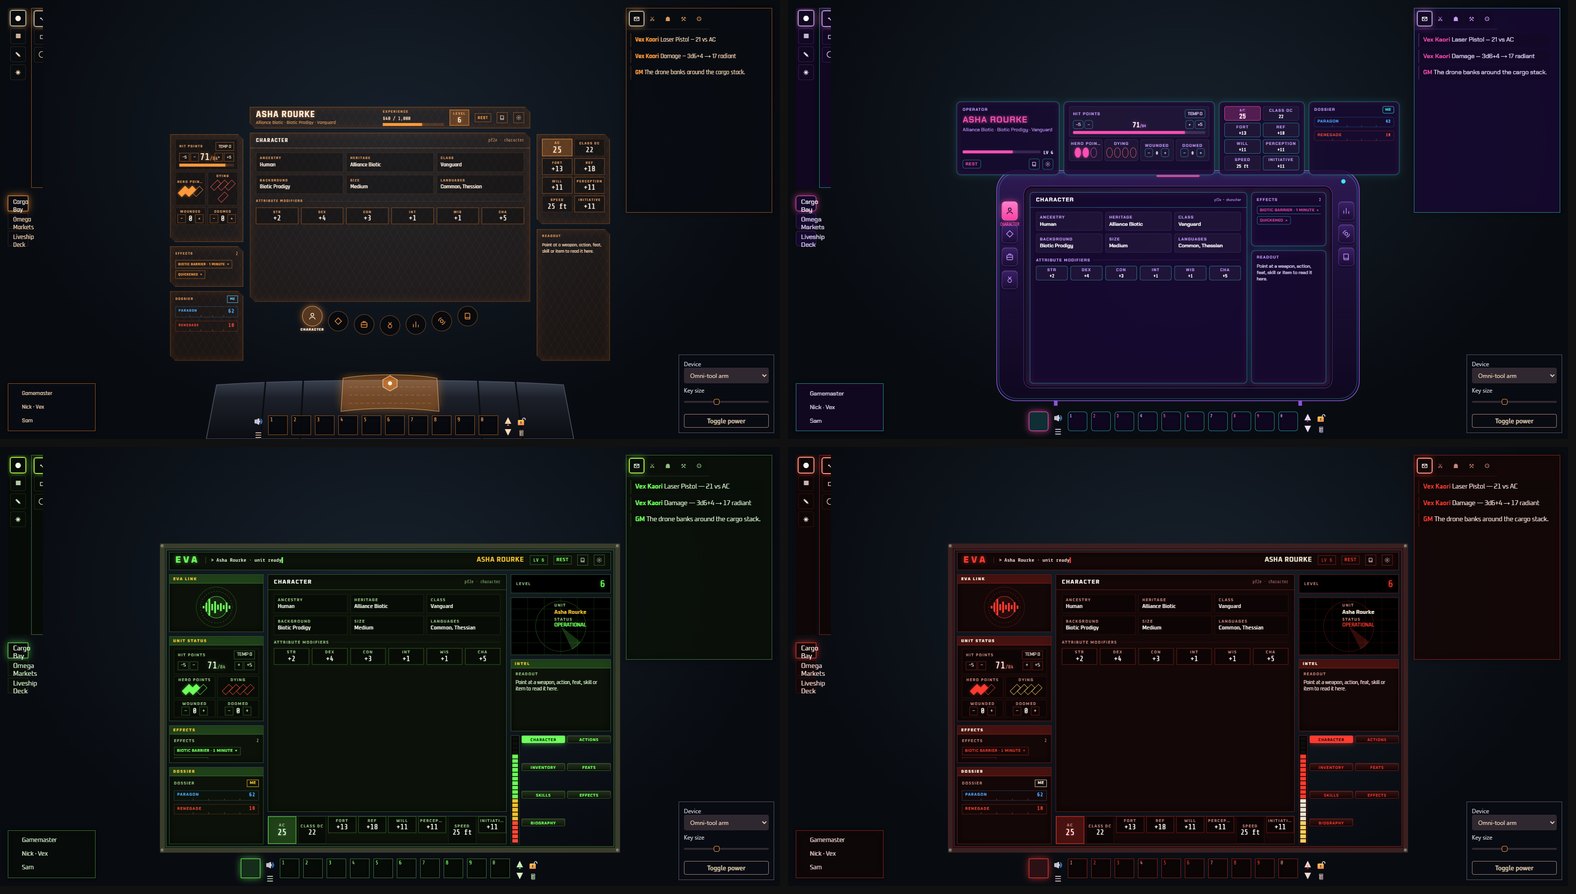
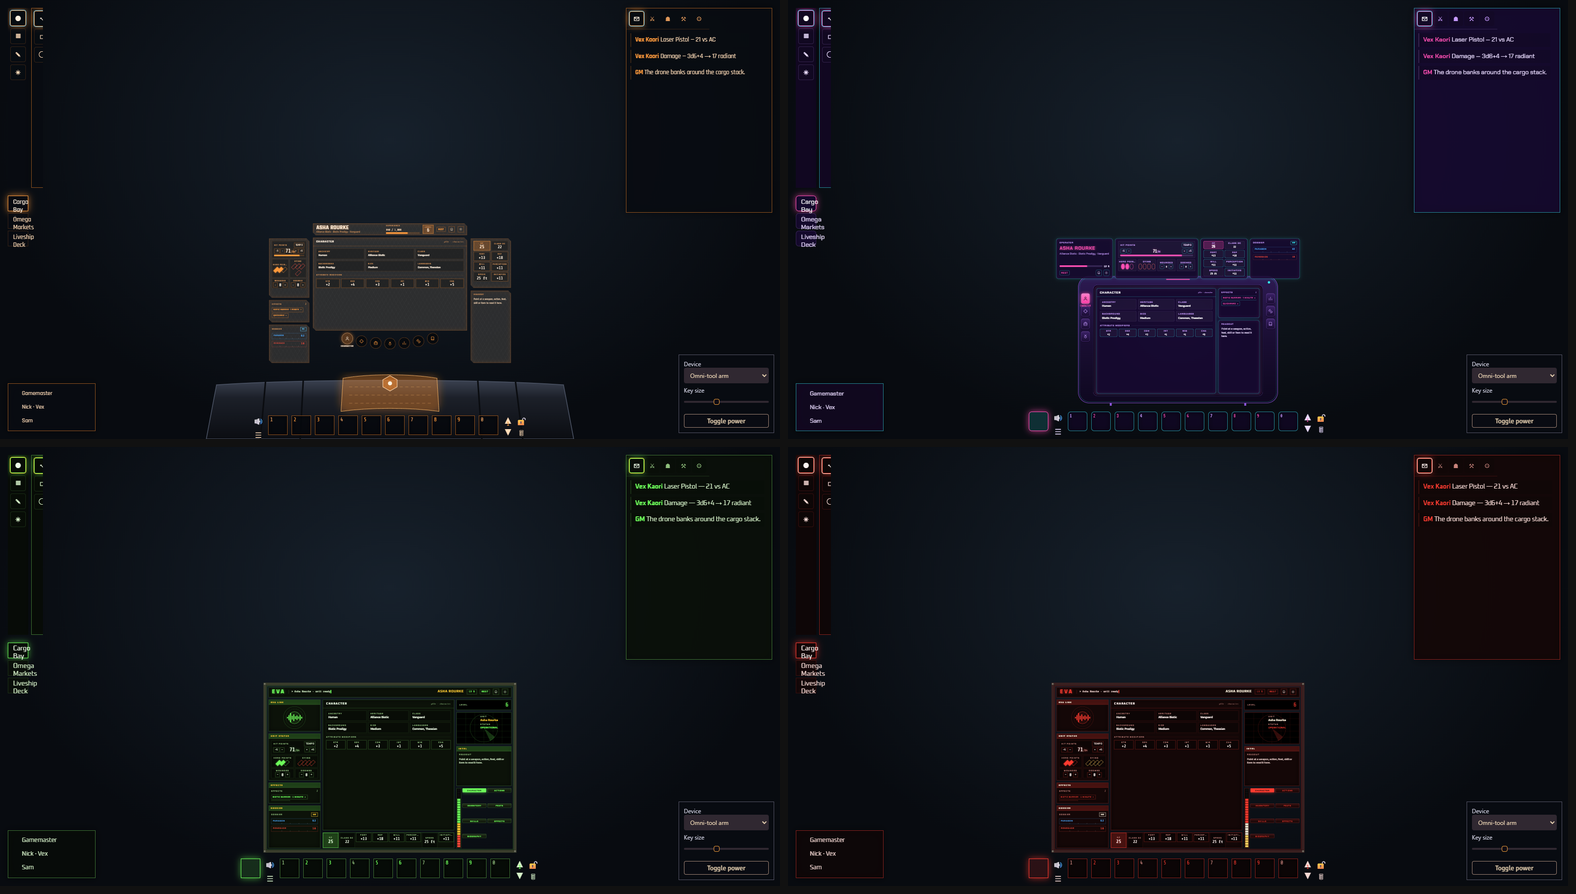
Stop the projection filling the screen, and make its panels readable
It was scaled to whatever room the interface left, which on a big monitor
means the whole monitor. There is a Projection size setting now — a share of
the free space, defaulting to 55% — so it sits above the device instead of
swallowing the map.

The omni-tool's panels were nearly clear glass (7% orange over whatever the
canvas showed), which is fine on a mock-up page and unreadable over a battle
map. They are a 20% grey tint now, kept translucent enough to still read as a
projection.

The panel colour is a design change, so it was made in design/1-head.html and
projection.css regenerated from it.

diff --git a/styles/projection.css b/styles/projection.css
@@ -12,7 +12,7 @@
 
 /* ---------- theme tokens ---------- */
 #sfh-projection .sfh-stage{position:absolute;inset:0;overflow:hidden;background:var(--bg);color:var(--text);font-family:var(--font);font-size:var(--fs)}
-#sfh-projection .sfh-stage[data-device="omni"]{--bg:radial-gradient(ellipse at 50% 36%,#111723 0%,#05070b 68%);--pnl:rgba(255,120,20,.07);--pnl2:rgba(0,0,0,.28);--line:rgba(255,140,42,.55);--line2:rgba(255,140,42,.18);--text:#ffdcb8;--bright:#fff0de;--dim:#e0985a;--hot:#ff9a3c;--hotbg:rgba(255,140,42,.28);--hover:rgba(255,140,42,.16);--glow:rgba(255,140,42,.7);--acc:#5ec8ff;--accbg:rgba(94,200,255,.16);--bad:#ff5a4a;--good:#8dffb0;--font:Rajdhani,'Arial Narrow',sans-serif;--display:Rajdhani,'Arial Narrow',sans-serif;--mono:'Share Tech Mono',ui-monospace,monospace;--fs:15px;--r:0px;--clip:polygon(0 0,calc(100% - 14px) 0,100% 14px,100% 100%,14px 100%,0 calc(100% - 14px));--pshadow:inset 0 0 22px rgba(255,120,20,.15),0 0 14px rgba(255,120,20,.1)}
+#sfh-projection .sfh-stage[data-device="omni"]{--bg:radial-gradient(ellipse at 50% 36%,#111723 0%,#05070b 68%);--pnl:rgba(51,51,51,.82);--pnl2:rgba(26,26,26,.55);--line:rgba(255,140,42,.55);--line2:rgba(255,140,42,.18);--text:#ffdcb8;--bright:#fff0de;--dim:#e0985a;--hot:#ff9a3c;--hotbg:rgba(255,140,42,.28);--hover:rgba(255,140,42,.16);--glow:rgba(255,140,42,.7);--acc:#5ec8ff;--accbg:rgba(94,200,255,.16);--bad:#ff5a4a;--good:#8dffb0;--font:Rajdhani,'Arial Narrow',sans-serif;--display:Rajdhani,'Arial Narrow',sans-serif;--mono:'Share Tech Mono',ui-monospace,monospace;--fs:15px;--r:0px;--clip:polygon(0 0,calc(100% - 14px) 0,100% 14px,100% 100%,14px 100%,0 calc(100% - 14px));--pshadow:inset 0 0 22px rgba(255,120,20,.15),0 0 14px rgba(255,120,20,.1)}
 #sfh-projection .sfh-stage[data-device="wrist"]{--bg:#0b0418;--pnl:rgba(22,9,48,.86);--pnl2:rgba(255,255,255,.04);--line:rgba(53,236,242,.55);--line2:rgba(199,155,255,.18);--text:#eadcff;--bright:#ffffff;--dim:#c79bff;--hot:#ff4fb4;--hotbg:rgba(255,79,180,.26);--hover:rgba(53,236,242,.14);--glow:rgba(255,79,180,.7);--acc:#35ecf2;--accbg:rgba(53,236,242,.14);--bad:#ff6b6b;--good:#7dffc8;--font:'Chakra Petch',sans-serif;--display:Audiowide,'Chakra Petch',sans-serif;--mono:VT323,ui-monospace,monospace;--fs:14px;--r:10px;--clip:none;--pshadow:0 0 18px rgba(53,236,242,.18),inset 0 0 16px rgba(255,79,180,.1)}
 #sfh-projection .sfh-stage[data-device="gdi"]{--bg:#060805;--pnl:#0c1209;--pnl2:rgba(0,0,0,.35);--line:rgba(118,214,96,.45);--line2:rgba(118,214,96,.16);--text:#d6f2c9;--bright:#effde8;--dim:#8fbf7c;--hot:#6dff5a;--hotbg:rgba(109,255,90,.2);--hover:rgba(109,255,90,.12);--glow:rgba(109,255,90,.6);--acc:#f2c230;--accbg:rgba(242,194,48,.16);--bad:#ff4a3a;--good:#6dff5a;--font:Oxanium,sans-serif;--display:Oxanium,sans-serif;--mono:'Share Tech Mono',ui-monospace,monospace;--fs:14px;--r:0px;--clip:none;--pshadow:inset 0 0 0 1px #000,inset 0 0 24px rgba(0,0,0,.6)}
 #sfh-projection .sfh-stage[data-device="nod"]{--bg:#080404;--pnl:#140707;--pnl2:rgba(0,0,0,.35);--line:rgba(255,60,50,.45);--line2:rgba(255,60,50,.16);--text:#f5d9d4;--bright:#fff3f0;--dim:#c9847c;--hot:#ff3b30;--hotbg:rgba(255,59,48,.22);--hover:rgba(255,59,48,.13);--glow:rgba(255,59,48,.65);--acc:#efe6d2;--accbg:rgba(239,230,210,.14);--bad:#ffd060;--good:#efe6d2;--font:Oxanium,sans-serif;--display:Oxanium,sans-serif;--mono:'Share Tech Mono',ui-monospace,monospace;--fs:14px;--r:0px;--clip:none;--pshadow:inset 0 0 0 1px #000,inset 0 0 24px rgba(0,0,0,.6)}

diff --git a/design/1-head.html b/design/1-head.html
@@ -21,7 +21,7 @@ body{font-family:'IBM Plex Sans',system-ui,sans-serif;padding-inline:16px;paddin
 
 /* ---------- theme tokens ---------- */
 .stage{position:absolute;inset:0;overflow:hidden;background:var(--bg);color:var(--text);font-family:var(--font);font-size:var(--fs)}
-.t-omni{--bg:radial-gradient(ellipse at 50% 36%,#111723 0%,#05070b 68%);--pnl:rgba(255,120,20,.07);--pnl2:rgba(0,0,0,.28);--line:rgba(255,140,42,.55);--line2:rgba(255,140,42,.18);--text:#ffdcb8;--bright:#fff0de;--dim:#e0985a;--hot:#ff9a3c;--hotbg:rgba(255,140,42,.28);--hover:rgba(255,140,42,.16);--glow:rgba(255,140,42,.7);--acc:#5ec8ff;--accbg:rgba(94,200,255,.16);--bad:#ff5a4a;--good:#8dffb0;--font:Rajdhani,'Arial Narrow',sans-serif;--display:Rajdhani,'Arial Narrow',sans-serif;--mono:'Share Tech Mono',ui-monospace,monospace;--fs:15px;--r:0px;--clip:polygon(0 0,calc(100% - 14px) 0,100% 14px,100% 100%,14px 100%,0 calc(100% - 14px));--pshadow:inset 0 0 22px rgba(255,120,20,.15),0 0 14px rgba(255,120,20,.1)}
+.t-omni{--bg:radial-gradient(ellipse at 50% 36%,#111723 0%,#05070b 68%);--pnl:rgba(51,51,51,.82);--pnl2:rgba(26,26,26,.55);--line:rgba(255,140,42,.55);--line2:rgba(255,140,42,.18);--text:#ffdcb8;--bright:#fff0de;--dim:#e0985a;--hot:#ff9a3c;--hotbg:rgba(255,140,42,.28);--hover:rgba(255,140,42,.16);--glow:rgba(255,140,42,.7);--acc:#5ec8ff;--accbg:rgba(94,200,255,.16);--bad:#ff5a4a;--good:#8dffb0;--font:Rajdhani,'Arial Narrow',sans-serif;--display:Rajdhani,'Arial Narrow',sans-serif;--mono:'Share Tech Mono',ui-monospace,monospace;--fs:15px;--r:0px;--clip:polygon(0 0,calc(100% - 14px) 0,100% 14px,100% 100%,14px 100%,0 calc(100% - 14px));--pshadow:inset 0 0 22px rgba(255,120,20,.15),0 0 14px rgba(255,120,20,.1)}
 .t-wrist{--bg:#0b0418;--pnl:rgba(22,9,48,.86);--pnl2:rgba(255,255,255,.04);--line:rgba(53,236,242,.55);--line2:rgba(199,155,255,.18);--text:#eadcff;--bright:#ffffff;--dim:#c79bff;--hot:#ff4fb4;--hotbg:rgba(255,79,180,.26);--hover:rgba(53,236,242,.14);--glow:rgba(255,79,180,.7);--acc:#35ecf2;--accbg:rgba(53,236,242,.14);--bad:#ff6b6b;--good:#7dffc8;--font:'Chakra Petch',sans-serif;--display:Audiowide,'Chakra Petch',sans-serif;--mono:VT323,ui-monospace,monospace;--fs:14px;--r:10px;--clip:none;--pshadow:0 0 18px rgba(53,236,242,.18),inset 0 0 16px rgba(255,79,180,.1)}
 .t-gdi{--bg:#060805;--pnl:#0c1209;--pnl2:rgba(0,0,0,.35);--line:rgba(118,214,96,.45);--line2:rgba(118,214,96,.16);--text:#d6f2c9;--bright:#effde8;--dim:#8fbf7c;--hot:#6dff5a;--hotbg:rgba(109,255,90,.2);--hover:rgba(109,255,90,.12);--glow:rgba(109,255,90,.6);--acc:#f2c230;--accbg:rgba(242,194,48,.16);--bad:#ff4a3a;--good:#6dff5a;--font:Oxanium,sans-serif;--display:Oxanium,sans-serif;--mono:'Share Tech Mono',ui-monospace,monospace;--fs:14px;--r:0px;--clip:none;--pshadow:inset 0 0 0 1px #000,inset 0 0 24px rgba(0,0,0,.6)}
 .t-nod{--bg:#080404;--pnl:#140707;--pnl2:rgba(0,0,0,.35);--line:rgba(255,60,50,.45);--line2:rgba(255,60,50,.16);--text:#f5d9d4;--bright:#fff3f0;--dim:#c9847c;--hot:#ff3b30;--hotbg:rgba(255,59,48,.22);--hover:rgba(255,59,48,.13);--glow:rgba(255,59,48,.65);--acc:#efe6d2;--accbg:rgba(239,230,210,.14);--bad:#ffd060;--good:#efe6d2;--font:Oxanium,sans-serif;--display:Oxanium,sans-serif;--mono:'Share Tech Mono',ui-monospace,monospace;--fs:14px;--r:0px;--clip:none;--pshadow:inset 0 0 0 1px #000,inset 0 0 24px rgba(0,0,0,.6)}
